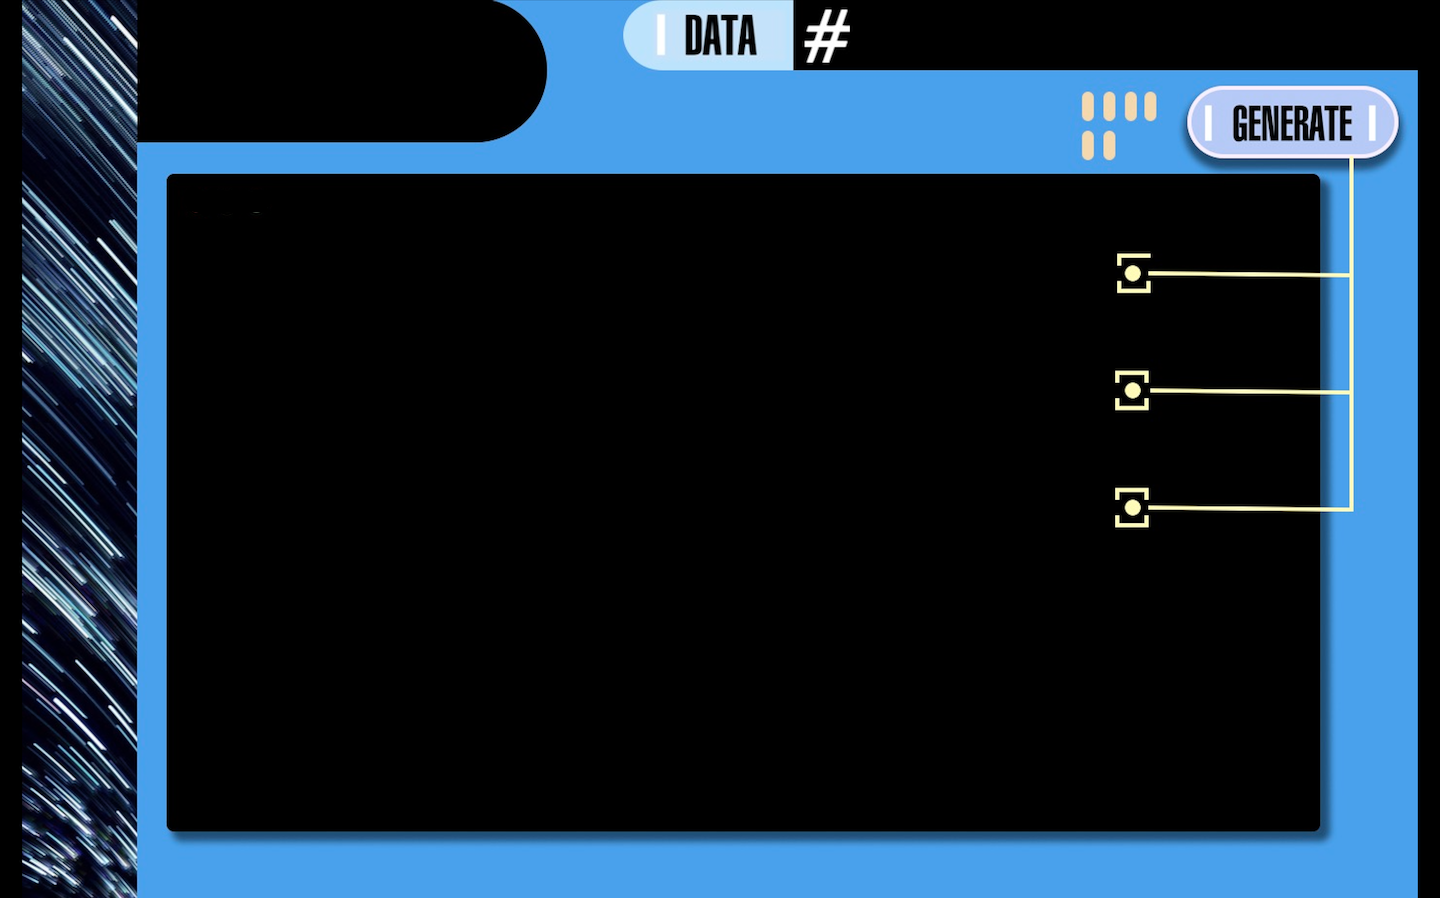
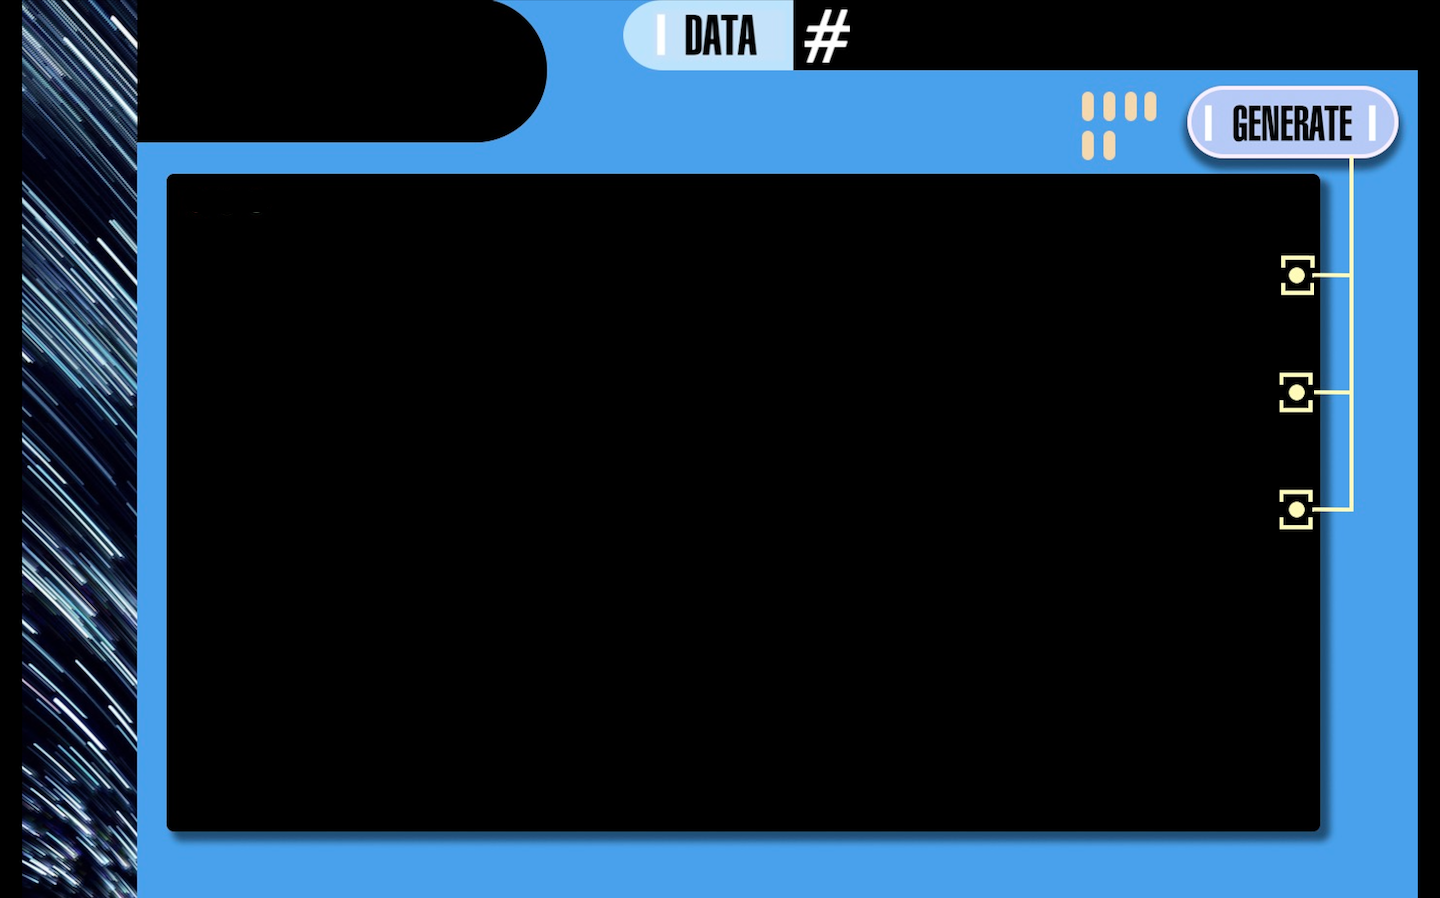
Made plot show on output

Changed region(s): [[0.7812, 0.5301, 0.9375, 0.5924], [0.7812, 0.2806, 0.9375, 0.343], [0.7812, 0.4053, 0.9062, 0.4677]]

diff --git a/Interface/generation_function.py b/Interface/generation_function.py
@@ -91,7 +91,7 @@ def wordcloud_plot(search_term, tweets_dataframe, save_path):
     # Create word-cloud
     word_cloud = WordCloud(font_path="/Users/jamesashford/Documents/Projects/Hackathons/Oxford Hack 2020/OxHack-2020/Interface/rsc/swiss_911_ultra_compressed_bt.ttf",
                             mode="RGBA", background_color=None, colormap="Blues", 
-                            width=1000, height=630, max_words=2000)
+                            width=1000, height=600, max_words=2000)
     word_cloud.generate(tweet_str)
     # Save
     file_name = f"{save_path}/{search_term}_wordcloud.png"
@@ -130,7 +130,7 @@ def cooc_graph(search_term, tweets_dataframe, save_path, NUM_OF_COOCS=5):
     font_manager.fontManager.ttflist.extend(font_list)
 
     # Extract and clean words
-    all_words = TextBlob(" ".join(tweets).upper()).words.singularize().lemmatize()
+    all_words = TextBlob(" ".join(tweets).upper()).words.lemmatize()
     # Get stop-words
     stop_words = list(set(stopwords.words('english'))) + ['thi']
     # Remove Stop and Short Words
@@ -181,15 +181,15 @@ def cooc_graph(search_term, tweets_dataframe, save_path, NUM_OF_COOCS=5):
     for node in G:
         if node in ALL_SEARCH_TERMS.upper():
             col = 'darkblue' #'red'
-            size = counts[node]*1000 #5000
+            size = counts[node]*100 #5000
             l0[node] = node
         elif node in layer1_names:
             col = 'lightblue' #'orange'
-            size = counts[node]*1000 #2500
+            size = counts[node]*100 #2500
             l1[node] = node
         else:
             col = 'cyan' #'blue'
-            size = counts[node]*100 #1000
+            size = counts[node]*10 #1000
             l2[node] = node
         colours.append(col)
         sizes.append(size)
@@ -200,16 +200,16 @@ def cooc_graph(search_term, tweets_dataframe, save_path, NUM_OF_COOCS=5):
     if len(ALL_SEARCH_TERMS) == 1:
         pos = nx.nx_agraph.graphviz_layout(G, prog='twopi')
     # Draw edges
-    edges = nx.draw_networkx_edges(G, pos, alpha=1, width=2, edge_color='white') #width=gd["stat"].values*10)
+    edges = nx.draw_networkx_edges(G, pos, alpha=1, width=1, edge_color='white') #width=gd["stat"].values*10)
     # Draw nodes, once white for background then again with colour+alpha
     nodes = nx.draw_networkx_nodes(G, pos, alpha=1, node_color='white', node_size=sizes)
     nodes = nx.draw_networkx_nodes(G, pos, alpha=0.8, node_color=colours, node_size=sizes)
     nodes.set_edgecolor('black')
     # Draw labels for each layer, with proportional sizes
-    labels0 = nx.draw_networkx_labels(G, pos, labels=l0, font_family="Swiss911 UCm BT", font_size=60)
-    labels1 = nx.draw_networkx_labels(G, pos, labels=l1, font_family="Swiss911 UCm BT", font_size=30)
-    labels2 = nx.draw_networkx_labels(G, pos, labels=l2, font_family="Swiss911 UCm BT", font_size=22, font_color="white")
-    labels2 = nx.draw_networkx_labels(G, pos, labels=l2, font_family="Swiss911 UCm BT", font_size=21, font_color="black")
+    labels0 = nx.draw_networkx_labels(G, pos, labels=l0, font_family="Swiss911 UCm BT", font_size=30)
+    labels1 = nx.draw_networkx_labels(G, pos, labels=l1, font_family="Swiss911 UCm BT", font_size=15)
+    labels2 = nx.draw_networkx_labels(G, pos, labels=l2, font_family="Swiss911 UCm BT", font_size=11, font_color="white")
+    labels2 = nx.draw_networkx_labels(G, pos, labels=l2, font_family="Swiss911 UCm BT", font_size=10, font_color="black")
 
     # Save
     file_name = f"{save_path}/{search_term}_coocgraph.png"

diff --git a/Interface/pyglet_interface.py b/Interface/pyglet_interface.py
@@ -18,11 +18,12 @@ class Region:
         else:
             return False
 
+global ACTIVE_WORD, main_display
+
 INTERFACE_PATH = "/Users/jamesashford/Documents/Projects/Hackathons/Oxford Hack 2020/OxHack-2020/Interface"
 RSC_PATH = f"{INTERFACE_PATH}/rsc"
 OUTPUT_PATH = f"{INTERFACE_PATH}/output"
 WIDTH, HEIGHT = 1440, 898
-global ACTIVE_WORD
 ACTIVE_WORD = "ENTER QUERY"
 
 # Load in font
@@ -40,23 +41,29 @@ search_word = pyglet.text.Label(ACTIVE_WORD,
                           x=860, y=620, width=580, height=270,
                           anchor_x='left', anchor_y='bottom')
 
-main_display = pyglet.image.load(f"{OUTPUT_PATH}/")
+main_display = pyglet.image.load(f"{RSC_PATH}/standby.png")
+main_display.anchor_x = 0; main_display.anchor_y = 0
 
 @window.event
 def on_draw():
     window.clear()
     background.blit(0, 0)
+    main_display.blit(200, 80)
     search_word.draw()
 
 @window.event
 def on_mouse_press(x, y, button, modifiers):
-    global ACTIVE_WORD
+    global ACTIVE_WORD, main_display
     if button == mouse.LEFT:
         print(f'The left mouse button was pressed at x:{x}, y:{y}')
         # Test if generate_button pressed
         if generate_button.in_region(x, y):
             print(f'Generate a Twitter Profile for "{ACTIVE_WORD}"')
             generate_plots(ACTIVE_WORD)
+
+            # Update main plot with the 
+            main_display = pyglet.image.load(f"{OUTPUT_PATH}/{ACTIVE_WORD}_coocgraph.png")
+            main_display.anchor_x = 0; main_display.anchor_y = 0
 
 @window.event
 def on_key_press(symbol, modifiers):
